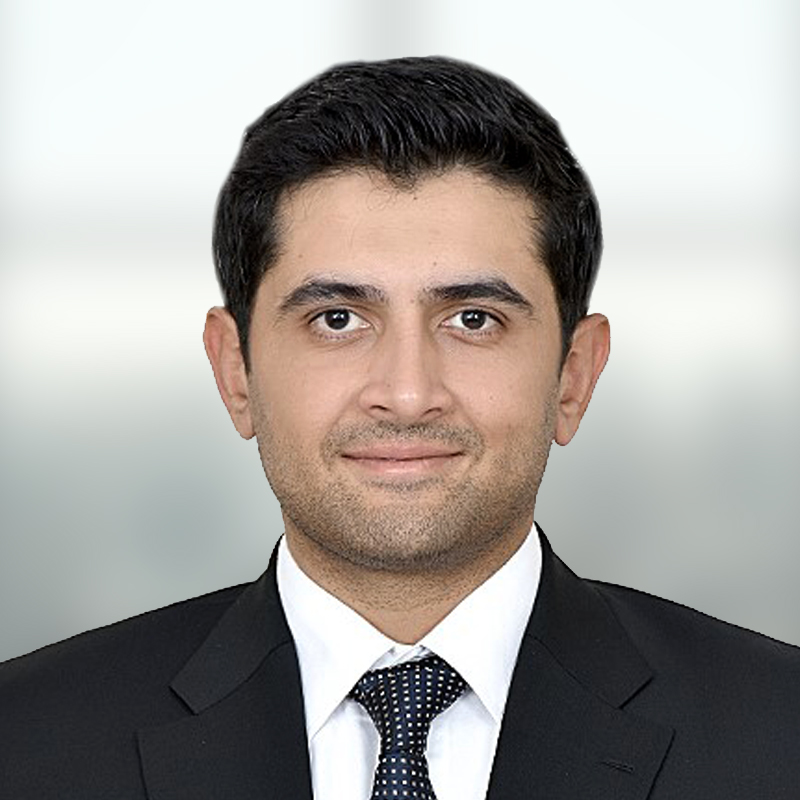
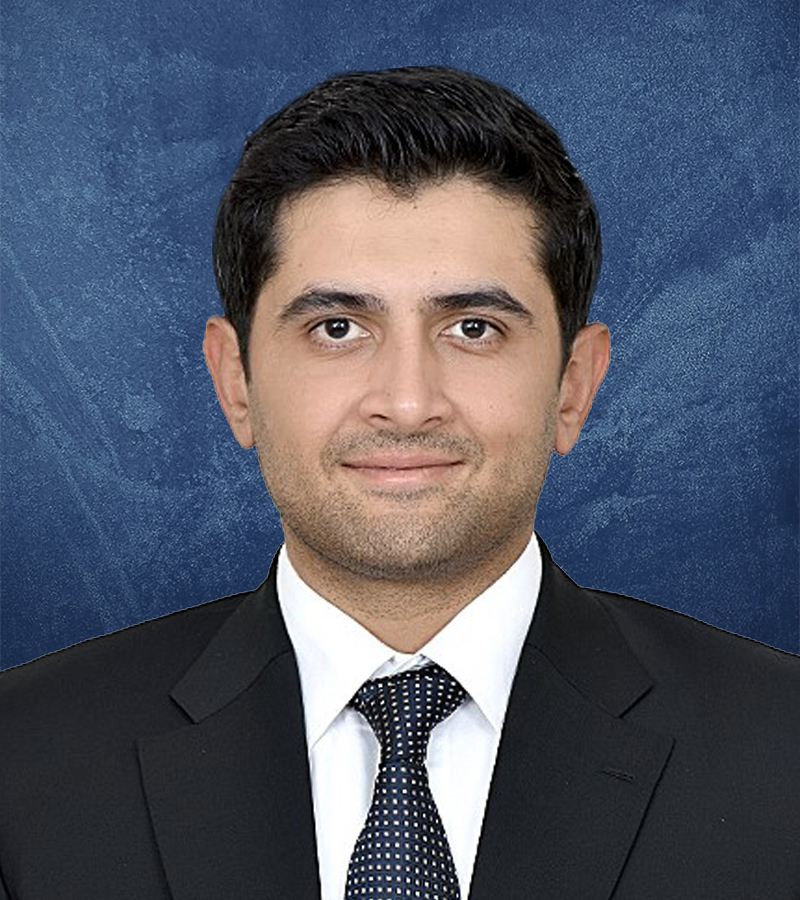
QR code generation & incentie changes

diff --git a/resources/views/incentive/incentive.blade.php b/resources/views/incentive/incentive.blade.php
@@ -99,6 +99,45 @@
                                         </td>
                                     </tr>
                             @endforeach
+                            {{-- @foreach($incentive as $key => $inc)
+                                @php
+                                    $incentiveMonth = date('n', strtotime($inc['incentive_period'])); 
+                                @endphp
+
+                                @if($incentiveMonth == $currentMonth)  
+                                    <tr>
+                                        <td class="ps-5">
+                                            {{ ++$key }}
+                                        </td>
+                                        <td>
+                                            {{ $inc['incentive_period'] }}
+                                        </td>
+                                        <td>
+                                            {{ $inc['employee_types'] }}
+                                        </td>
+                                        <td>
+                                            {{ $inc['max_created_at'] }}
+                                        </td>
+                                        <td>
+                                            <a href="javascript:void(0);" class="btn btn-icon btn-bg-light btn-active-color-primary btn-sm m-1 view_details_btn" data-bs-toggle="tooltip" aria-label="View Incentive Details" data-kt-initialized="1" data-period="{{ $inc['incentive_period'] }}">
+                                                <i class="fa fa-eye" aria-hidden="true"></i>
+                                            </a>
+                                            <a href="javascript:void(0);" class="btn btn-icon btn-bg-light btn-active-color-primary btn-sm me-1 download_details_btn" data-bs-toggle="tooltip" aria-label="Download Incentive Details" data-period="{{ $inc['incentive_period'] }}">
+                                                <i class="fa fa-download" aria-hidden="true"></i>
+                                            </a>
+
+                                            <a href="javascript:void(0);" class="btn btn-icon btn-bg-light btn-active-color-primary btn-sm m-1 edit_details_btn" data-bs-toggle="tooltip" title="Edit Incentive" data-period="{{ $inc['incentive_period'] }}">
+                                                <span class="svg-icon svg-icon-3">
+                                                    <svg width="24" height="24" viewBox="0 0 24 24" fill="none" xmlns="http://www.w3.org/2000/svg">
+                                                        <path opacity="0.3" d="M21.4 8.35303L19.241 10.511L13.485 4.755L15.643 2.59595C16.0248 2.21423 16.5426 1.99988 17.0825 1.99988C17.6224 1.99988 18.1402 2.21423 18.522 2.59595L21.4 5.474C21.7817 5.85581 21.9962 6.37355 21.9962 6.91345C21.9962 7.45335 21.7817 7.97122 21.4 8.35303ZM3.68699 21.932L9.88699 19.865L4.13099 14.109L2.06399 20.309C1.98815 20.5354 1.97703 20.7787 2.03189 21.0111C2.08674 21.2436 2.2054 21.4561 2.37449 21.6248C2.54359 21.7934 2.75641 21.9115 2.989 21.9658C3.22158 22.0201 3.4647 22.0084 3.69099 21.932H3.68699Z" fill="currentColor"></path>
+                                                        <path d="M5.574 21.3L3.692 21.928C3.46591 22.0032 3.22334 22.0141 2.99144 21.9594C2.75954 21.9046 2.54744 21.7864 2.3789 21.6179C2.21036 21.4495 2.09202 21.2375 2.03711 21.0056C1.9822 20.7737 1.99289 20.5312 2.06799 20.3051L2.696 18.422L5.574 21.3ZM4.13499 14.105L9.891 19.861L19.245 10.507L13.489 4.75098L4.13499 14.105Z" fill="currentColor"></path>
+                                                    </svg>
+                                                </span>
+                                            </a>
+                                        </td>
+                                    </tr>
+                                @endif
+                            @endforeach --}}
                         </tbody>
                     </table>
                 </div>
@@ -136,7 +175,9 @@
                                     <option value="{{ $months[$monthz] }} - {{ date('Y') }}">{{ $months[$monthz] }}  - {{ date('Y') }}</option>
                                 @endfor
                             </select> --}}
-                            <select class="form-select" name="incentive_period"> 
+                            <select class="form-select" name="incentive_period" required> 
+                                <option value="">Select Month</option>
+
                                 @for ($monthz = $currentMonth; $monthz <= 12; $monthz++)
                                     <option value="{{ $months[$monthz] }} - {{ date('Y') }}">{{ $months[$monthz] }} - {{ date('Y') }}</option>
                                 @endfor
@@ -158,6 +199,7 @@
                                 <option value="DSR + TSM">DSR + TSM</option>
                                 <option value="TSM + ASM 2-3">TSM + ASM 2-3</option>
                                 <option value="TSM - IMT">TSM - IMT</option>
+                                <option value="ASM - 1 ZSM KAM">ASM - 1 ZSM KAM</option>
                                 {{-- <option value="ASM + TSM">ASM + TSM</option> --}}
                             </select>
                         </div>
@@ -191,6 +233,8 @@
                     <div class="row mt-3">
                         <div class="col-md-3">
                             <button class="btn btn-primary" type="button" id="add-row-btn">+</button>
+                            <button class="btn btn-danger remove-row-btn" type="button" style="display: none;">-</button>
+
                         </div>
                     </div>
                     
@@ -230,7 +274,9 @@
                     <div class="row">
                         <div class="col-md-12">
                             <label class="fs-6 fw-semibold mb-2 required">Incentive Period</label>
-                            <select class="form-select" name="incentive_period"> 
+                            <select class="form-select" name="incentive_period" required> 
+                                <option value="">Select Month</option>
+
                                 @for ($monthz = $currentMonth; $monthz <= 12; $monthz++)
                                     <option value="{{ $months[$monthz] }} - {{ date('Y') }}">{{ $months[$monthz] }} - {{ date('Y') }}</option>
                                 @endfor
@@ -287,14 +333,49 @@
 @push('js-link')
 <script src="{{url('assets/js/department/department.js')}}"></script>
 <script>
+    // $(document).ready(function() {
+    //     $('#add-row-btn').on('click', function() {
+    //         var newRow = $('.designation-row:first').clone();
+    //         newRow.find('input').val('');
+    //         newRow.find('select').val('');
+    //         $('#designation-rows-container').append(newRow);
+    //     });
+    // });
+
     $(document).ready(function() {
-        $('#add-row-btn').on('click', function() {
-            var newRow = $('.designation-row:first').clone();
-            newRow.find('input').val('');
-            newRow.find('select').val('');
-            $('#designation-rows-container').append(newRow);
-        });
+    $('#add-row-btn').on('click', function() {
+        // Clone the first row and clear input values
+        var newRow = $('.designation-row:first').clone();
+        newRow.find('input').val('');
+        newRow.find('select').val('');
+        $('#designation-rows-container').append(newRow);
+
+        // Show the remove button if row count is greater than 1
+        toggleRemoveButton();
     });
+
+    // Remove the last row when the remove button is clicked
+    $(document).on('click', '.remove-row-btn', function() {
+        if ($('.designation-row').length > 1) {
+            $('.designation-row:last').remove();
+            toggleRemoveButton();
+        }
+    });
+
+    // Function to show/hide remove button based on row count
+    function toggleRemoveButton() {
+        if ($('.designation-row').length > 1) {
+            $('.remove-row-btn').show();
+        } else {
+            $('.remove-row-btn').hide();
+        }
+    }
+
+    // Initialize the remove button state
+    toggleRemoveButton();
+});
+
+
 
     $('#adddesignation_form').on('submit', function(e) {
         e.preventDefault();
@@ -421,6 +502,10 @@
                                     <option value="ZSM" ${incentive.employee_type === 'ZSM' ? 'selected' : ''}>ZSM</option>
                                     <option value="NSM" ${incentive.employee_type === 'NSM' ? 'selected' : ''}>NSM</option>
                                     <option value="DSR + TSM" ${incentive.employee_type === 'DSR + TSM' ? 'selected' : ''}>DSR + TSM</option>
+                                    <option value="TSM + ASM 2-3" ${incentive.employee_type === 'TSM + ASM 2-3' ? 'selected' : ''}>TSM + ASM 2-3</option>
+                                    <option value="TSM - IMT"  ${incentive.employee_type === 'TSM - IMT' ? 'selected' : ''}>TSM - IMT</option>
+                                    <option value="ASM - 1 ZSM KAM" ${incentive.employee_type === 'ASM - 1 ZSM KAM' ? 'selected' : ''}>ASM - 1 ZSM KAM</option>
+
                                 </select>
                             </div>
                             <div class="col-md-2 mt-3">

diff --git a/app/Http/Controllers/web/EmployeeController.php b/app/Http/Controllers/web/EmployeeController.php
@@ -16,13 +16,10 @@ use App\Helpers\ActivityTracker;
 use Illuminate\Support\Facades\DB;
 use OpenSpout\Common\Entity\Style\Style;
 use DateTime;
-
+use Endroid\QrCode\Writer\PngWriter;
 use SimpleSoftwareIO\QrCode\Facades\QrCode;
-
-
-
-
-
+use Illuminate\Support\Facades\Response;
+use Endroid\QrCode\Builder\Builder;
 
 class EmployeeController extends Controller
 {
@@ -2004,9 +2001,9 @@ class EmployeeController extends Controller
                                  
             $validator = Validator::make($employee_data->all(), [
                 'employee_name' =>  'required',
-                'employee_contact_no' => ['required','unique:tbl_employees,employee_contactno,'.$employee_data->input('employee_id').',employee_id'],
-                'employee_official_email' => ['required','regex:/^[^@]+@\w+(\.\w+)+$/','unique:tbl_employees,employee_work_email,'.$employee_data->input('employee_id').',employee_id','unique:tbl_employees,employee_personal_email,'.$employee_data->input('employee_id').',employee_id'],
-                'employee_jobtitle' => 'required',                                
+                // 'employee_contact_no' => ['required','unique:tbl_employees,employee_contactno,'.$employee_data->input('employee_id').',employee_id'],
+                // 'employee_official_email' => ['required','regex:/^[^@]+@\w+(\.\w+)+$/','unique:tbl_employees,employee_work_email,'.$employee_data->input('employee_id').',employee_id','unique:tbl_employees,employee_personal_email,'.$employee_data->input('employee_id').',employee_id'],
+                'employee_jobtitle' => 'required',
             ]);
             
             if($validator->fails()) {
@@ -6986,5 +6983,45 @@ class EmployeeController extends Controller
 
         }
 	}
+
+    public function generate_qrcode(Request $request)
+    {
+        $url = $request->input('url', 'https://example.com');
+        $name = $request->input('name', 'qrcode');
+
+        // $result = Builder::create()
+        //     ->writer(new PngWriter())
+        //     ->data($url)
+        //     ->size(500)
+        //     ->margin(10)
+        //     ->build();
+
+        // $pngData = $result->getString();
+
+        // return Response::make($pngData, 200, [
+        //     'Content-Type' => 'image/png',
+        //     'Content-Disposition' => 'attachment; filename="qrcode.png"',
+        // ]);
+
+        // Build the QR code
+        $result = Builder::create()
+            ->writer(new PngWriter())
+            ->data($url)
+            ->size(500)
+            ->margin(10)
+            ->build();
+
+        // Convert the generated QR code to a string for response
+        $pngData = $result->getString();
+
+        // Set the dynamic filename using the 'name' input, sanitized for safety
+        $fileName = preg_replace('/[^A-Za-z0-9_\-]/', '_', $name) . '.png';
+
+        return Response::make($pngData, 200, [
+            'Content-Type' => 'image/png',
+            'Content-Disposition' => "attachment; filename=\"{$fileName}\"",
+        ]);
+
+    }
 
 }

diff --git a/resources/views/employee/business-cards.blade.php b/resources/views/employee/business-cards.blade.php
@@ -102,6 +102,13 @@
                         </div>
                                                                         
                     </form>
+                    <form action="{{ route('generate.qr') }}" method="GET">
+                        <label for="url">Enter URL:</label>
+                        <input type="hidden" name="url" id="url" value="https://ecard.ismailindustries.com.pk/view/{{ $employee_detail[0]['emp_unique_code'] }}" required>
+                        <input type="hidden" name="name" id="name" value="{{ $employee_detail[0]['employee_name'] }}" required>
+                        <button type="submit">Download QR Code</button>
+                    </form>
+                
                     {{--end::Table container--}}
                 </div>
                 {{--begin::Body--}}

diff --git a/routes/web.php b/routes/web.php
@@ -34,6 +34,7 @@ use App\Http\Controllers\api\{EmployeeApiController,AttendanceApiController};
         Route::get('/employee-documents/{employee_id}', [EmployeeController::class, 'employee_documents']);
         Route::get('/check-candidate-name-list', [EmployeeController::class, 'get_on_board_employees']);
         Route::post('/check-employee-name-list', [EmployeeController::class, 'get_reporting_employees']);
+        Route::get('/generate-qr', [EmployeeController::class, 'generate_qrcode'])->name('generate.qr');
 
         Route::get('/employee-allotment/{employee_id}', [EmployeeController::class , 'employee_allotment']);
         Route::get('/get_desinations/{departmentid}', [DesignationController::class, 'get_designations']);

diff --git a/resources/views/layout/sidebar.blade.php b/resources/views/layout/sidebar.blade.php
@@ -1419,7 +1419,7 @@
                        
                     @endif
 
-                    @if($login_user[0]['employee_code'] == '1000000' || $login_user[0]['employee_code'] == '1011281' || $login_user[0]['employee_code'] == '1000114')
+                    @if($login_user[0]['employee_code'] == '1000000' || $login_user[0]['employee_code'] == '1011281' || $login_user[0]['employee_code'] == '1000114' || $login_user[0]['employee_code'] == '1006346')
                     <div class="menu-item search-item">
                         <a class="menu-link nav-link @if($title == 'incentive') active @endif" href="{{url('incentive')}}">
                             <span class="menu-icon">

diff --git a/app/Http/Controllers/web/GeneralController.php b/app/Http/Controllers/web/GeneralController.php
@@ -108,9 +108,11 @@ class GeneralController extends Controller
     }
 
     protected function get_incentive_api(){
+        $currentMonthYear = date('F - Y'); // Format as 'Month - Year', e.g., 'October - 2024'
+        
         $incentives = DB::table('tbl_incentive')
-        // ->where('incentive_period', $incentivePeriod)
-        ->get();
+            ->where('incentive_period', $currentMonthYear) // Match with current 'Month - Year' format
+            ->get();
 
         return response()->json([
             'data' => $incentives
